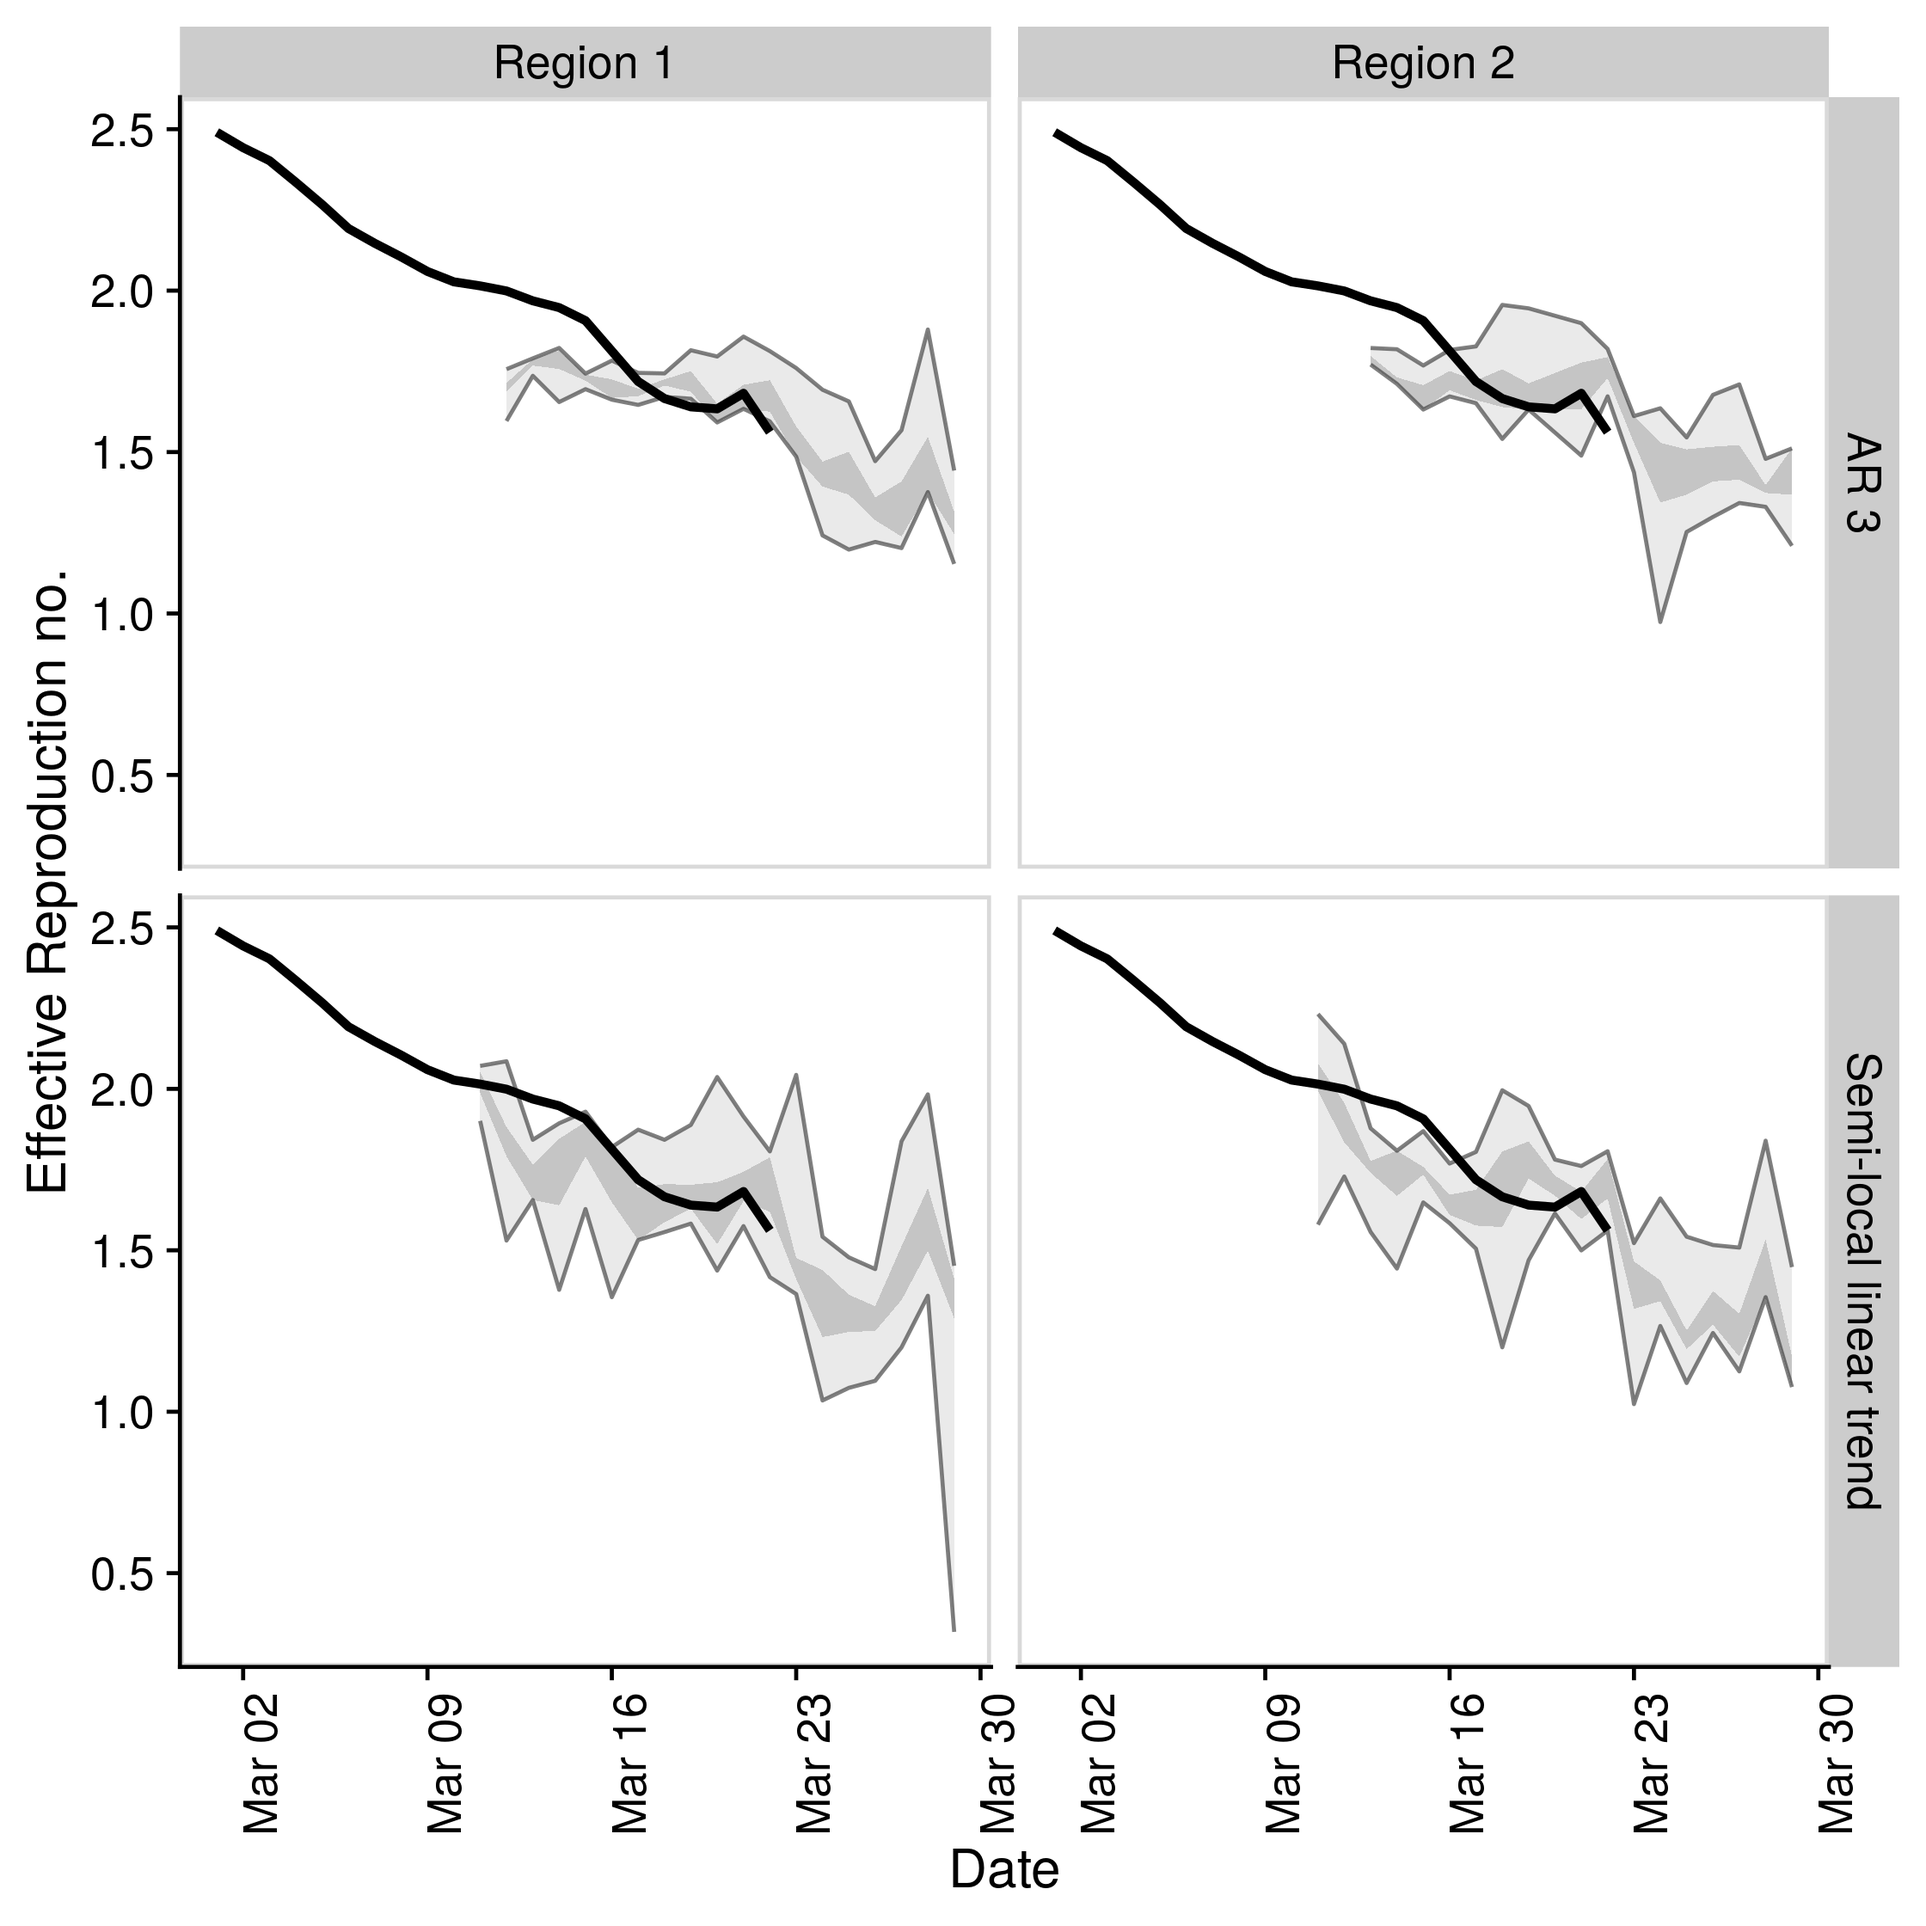
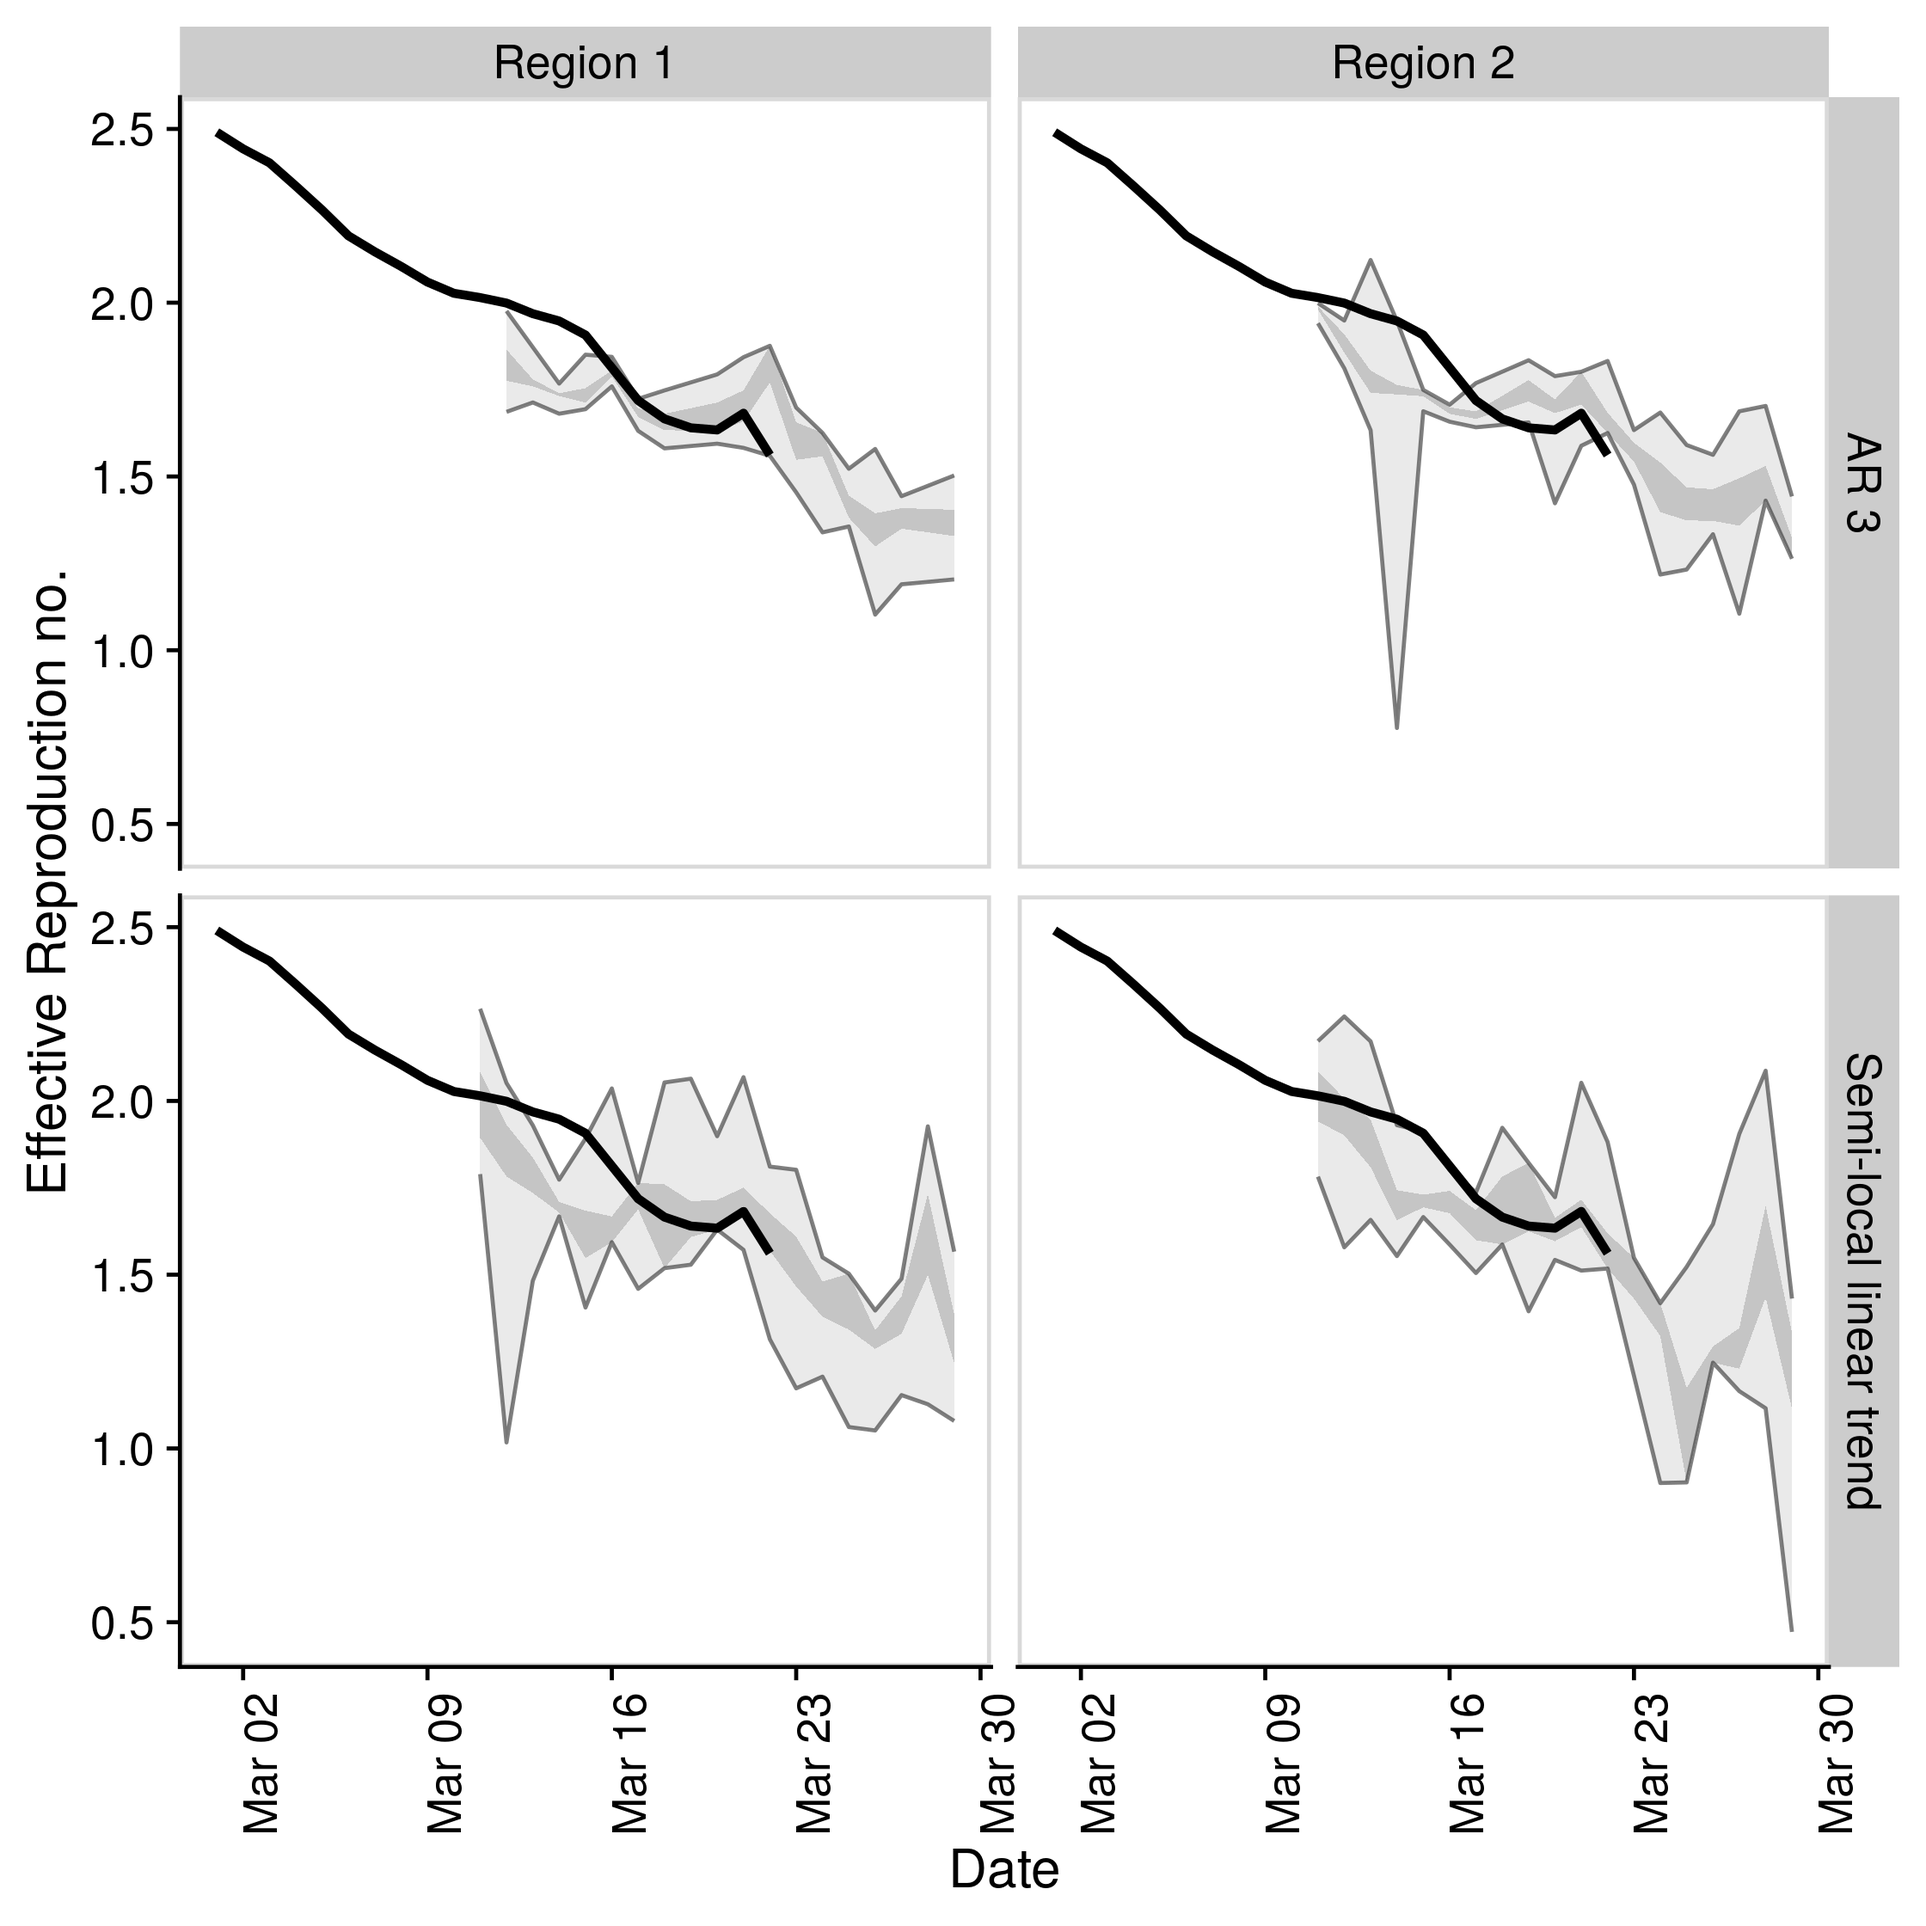
try again to suppress sample warning

diff --git a/README.md b/README.md
@@ -21,14 +21,15 @@ remotes::install_github("epiforecasts/EpiSoon", dependencies = TRUE)
 
 ## Quick start
 
-  - Load packages (`bsts` for models, `ggplot2` for plotting, and
-    `cowplot` for theming)
+  - Load packages (`bsts` and `fable` for models, `ggplot2` for
+    plotting, and `cowplot` for theming)
 
 <!-- end list -->
 
 ``` r
 library(EpiSoon)
 library(bsts)
+library(fable)
 library(future)
 library(cowplot)
 library(dplyr)
@@ -63,7 +64,9 @@ models <- list("AR 3" =
                      function(ss, y){bsts::AddAr(ss, y = y, lags = 3)}, ...)},
                 "Semi-local linear trend" =
                 function(...) {EpiSoon::bsts_model(model =
-                    function(ss, y){bsts::AddSemilocalLinearTrend(ss, y = y)}, ...)})
+                    function(ss, y){bsts::AddSemilocalLinearTrend(ss, y = y)}, ...)},
+               "ARIMA" = 
+                  function(...){fable_model(model = fable::ARIMA(y ~ time), ...)})
 ```
 
   - Compare models across timeseries (change the `future::plan` to do
@@ -78,73 +81,76 @@ future::plan("sequential")
 forecasts <- compare_timeseries(obs_rts, obs_cases, models,
                                    horizon = 7, samples = 10,
                                    serial_interval = EpiSoon::example_serial_interval)
+#> Warning: Unknown or uninitialised column: 'sample'.
+
+#> Warning: Unknown or uninitialised column: 'sample'.
 
 forecasts
 #> $forecast_rts
 #> # A tibble: 504 x 12
 #>    timeseries model forecast_date date       horizon median  mean     sd bottom
 #>    <chr>      <chr> <chr>         <date>       <int>  <dbl> <dbl>  <dbl>  <dbl>
-#>  1 Region 1   AR 3  2020-03-05    2020-03-06       1   2.16  2.16 0.0119   2.14
-#>  2 Region 1   AR 3  2020-03-05    2020-03-07       2   2.07  2.07 0.0269   2.03
-#>  3 Region 1   AR 3  2020-03-05    2020-03-08       3   2.00  2.00 0.0157   1.98
-#>  4 Region 1   AR 3  2020-03-05    2020-03-09       4   1.91  1.91 0.0225   1.87
-#>  5 Region 1   AR 3  2020-03-05    2020-03-10       5   1.85  1.85 0.0228   1.81
-#>  6 Region 1   AR 3  2020-03-05    2020-03-11       6   1.76  1.76 0.0168   1.74
-#>  7 Region 1   AR 3  2020-03-05    2020-03-12       7   1.70  1.69 0.0419   1.60
-#>  8 Region 1   AR 3  2020-03-06    2020-03-07       1   2.13  2.13 0.0163   2.08
-#>  9 Region 1   AR 3  2020-03-06    2020-03-08       2   2.06  2.06 0.0149   2.04
-#> 10 Region 1   AR 3  2020-03-06    2020-03-09       3   2.01  2.01 0.0116   1.99
+#>  1 Region 1   AR 3  2020-03-05    2020-03-06       1   2.19  2.19 0.0156   2.17
+#>  2 Region 1   AR 3  2020-03-05    2020-03-07       2   2.13  2.13 0.0331   2.07
+#>  3 Region 1   AR 3  2020-03-05    2020-03-08       3   2.08  2.07 0.0450   1.96
+#>  4 Region 1   AR 3  2020-03-05    2020-03-09       4   2.02  2.01 0.0604   1.90
+#>  5 Region 1   AR 3  2020-03-05    2020-03-10       5   1.96  1.95 0.0685   1.81
+#>  6 Region 1   AR 3  2020-03-05    2020-03-11       6   1.92  1.90 0.0738   1.77
+#>  7 Region 1   AR 3  2020-03-05    2020-03-12       7   1.84  1.83 0.0790   1.69
+#>  8 Region 1   AR 3  2020-03-06    2020-03-07       1   2.13  2.13 0.0224   2.09
+#>  9 Region 1   AR 3  2020-03-06    2020-03-08       2   2.06  2.05 0.0174   2.01
+#> 10 Region 1   AR 3  2020-03-06    2020-03-09       3   2.00  2.00 0.0273   1.97
 #> # … with 494 more rows, and 3 more variables: lower <dbl>, upper <dbl>,
 #> #   top <dbl>
 #> 
 #> $rt_scores
-#> # A tibble: 392 x 10
-#>    timeseries model forecast_date date       horizon    dss   crps    logs  bias
-#>    <chr>      <chr> <chr>         <date>       <int>  <dbl>  <dbl>   <dbl> <dbl>
-#>  1 Region 1   AR 3  2020-03-05    2020-03-06       1  -2.26 0.0231  -1.42      0
-#>  2 Region 1   AR 3  2020-03-05    2020-03-07       2   1.40 0.0611   0.487     0
-#>  3 Region 1   AR 3  2020-03-05    2020-03-08       3  40.9  0.0960  43.9       0
-#>  4 Region 1   AR 3  2020-03-05    2020-03-09       4  40.0  0.136   76.4       0
-#>  5 Region 1   AR 3  2020-03-05    2020-03-10       5  59.5  0.165   42.8       0
-#>  6 Region 1   AR 3  2020-03-05    2020-03-11       6 239.   0.242  193.        0
-#>  7 Region 1   AR 3  2020-03-05    2020-03-12       7  52.1  0.284  250.        0
-#>  8 Region 1   AR 3  2020-03-06    2020-03-07       1  -6.53 0.0135  -2.29      0
-#>  9 Region 1   AR 3  2020-03-06    2020-03-08       2   1.53 0.0370   7.87      0
-#> 10 Region 1   AR 3  2020-03-06    2020-03-09       3  14.2  0.0469   9.39      0
-#> # … with 382 more rows, and 1 more variable: sharpness <dbl>
+#> # A tibble: 398 x 10
+#>    timeseries model forecast_date date       horizon     dss    crps   logs
+#>    <chr>      <chr> <chr>         <date>       <int>   <dbl>   <dbl>  <dbl>
+#>  1 Region 1   AR 3  2020-03-05    2020-03-06       1 -8.42   0.00415 -2.96 
+#>  2 Region 1   AR 3  2020-03-05    2020-03-07       2 -6.70   0.00906 -2.37 
+#>  3 Region 1   AR 3  2020-03-05    2020-03-08       3 -5.55   0.0177  -2.11 
+#>  4 Region 1   AR 3  2020-03-05    2020-03-09       4 -5.06   0.0284  -1.59 
+#>  5 Region 1   AR 3  2020-03-05    2020-03-10       5 -4.14   0.0482  -1.09 
+#>  6 Region 1   AR 3  2020-03-05    2020-03-11       6 -2.55   0.0824  -0.439
+#>  7 Region 1   AR 3  2020-03-05    2020-03-12       7 -0.0455 0.129    0.147
+#>  8 Region 1   AR 3  2020-03-06    2020-03-07       1 -7.29   0.0105  -1.89 
+#>  9 Region 1   AR 3  2020-03-06    2020-03-08       2  2.29   0.0453   3.59 
+#> 10 Region 1   AR 3  2020-03-06    2020-03-09       3 -2.05   0.0491  -0.826
+#> # … with 388 more rows, and 2 more variables: bias <dbl>, sharpness <dbl>
 #> 
 #> $forecast_cases
-#> # A tibble: 392 x 12
+#> # A tibble: 398 x 12
 #>    timeseries model forecast_date date       horizon median  mean    sd bottom
 #>    <chr>      <chr> <chr>         <date>       <int>  <dbl> <dbl> <dbl>  <dbl>
-#>  1 Region 1   AR 3  2020-03-05    2020-03-06       1   71    71    8.30     61
-#>  2 Region 1   AR 3  2020-03-05    2020-03-07       2   75.5  75    7.76     63
-#>  3 Region 1   AR 3  2020-03-05    2020-03-08       3   87    86.1  8.31     74
-#>  4 Region 1   AR 3  2020-03-05    2020-03-09       4   94    95.8  5.92     89
-#>  5 Region 1   AR 3  2020-03-05    2020-03-10       5  106   109.  15.4      88
-#>  6 Region 1   AR 3  2020-03-05    2020-03-11       6  111   114.   9.26    107
-#>  7 Region 1   AR 3  2020-03-05    2020-03-12       7  118.  122.  15.5     101
-#>  8 Region 1   AR 3  2020-03-06    2020-03-07       1   83.5  82.8  6.99     68
-#>  9 Region 1   AR 3  2020-03-06    2020-03-08       2   91    91   10.5      76
-#> 10 Region 1   AR 3  2020-03-06    2020-03-09       3  105   104.   8.56     86
-#> # … with 382 more rows, and 3 more variables: lower <dbl>, upper <dbl>,
+#>  1 Region 1   AR 3  2020-03-05    2020-03-06       1   66.5  66.9  8.46     54
+#>  2 Region 1   AR 3  2020-03-05    2020-03-07       2   80.5  78.9 11.5      59
+#>  3 Region 1   AR 3  2020-03-05    2020-03-08       3   88    89.3  9.84     76
+#>  4 Region 1   AR 3  2020-03-05    2020-03-09       4  101    98.6 10.5      82
+#>  5 Region 1   AR 3  2020-03-05    2020-03-10       5  110.  110.  14.0      93
+#>  6 Region 1   AR 3  2020-03-05    2020-03-11       6  131   132.  16.8     112
+#>  7 Region 1   AR 3  2020-03-05    2020-03-12       7  132.  134.  12.3     119
+#>  8 Region 1   AR 3  2020-03-06    2020-03-07       1   76.5  78.6  9.56     63
+#>  9 Region 1   AR 3  2020-03-06    2020-03-08       2   88.5  88.9  5.67     82
+#> 10 Region 1   AR 3  2020-03-06    2020-03-09       3  104   105.   8.95     95
+#> # … with 388 more rows, and 3 more variables: lower <dbl>, upper <dbl>,
 #> #   top <dbl>
 #> 
 #> $case_scores
-#> # A tibble: 392 x 11
+#> # A tibble: 398 x 11
 #>    timeseries model sample forecast_date date       horizon   dss  crps  logs
 #>    <chr>      <chr> <chr>  <chr>         <date>       <int> <dbl> <dbl> <dbl>
-#>  1 Region 1   AR 3  1      2020-03-05    2020-03-06       1  4.19  3     3.42
-#>  2 Region 1   AR 3  1      2020-03-05    2020-03-07       2  7.11  8.78  3.98
-#>  3 Region 1   AR 3  1      2020-03-05    2020-03-08       3  8.20 11.8   4.63
-#>  4 Region 1   AR 3  1      2020-03-05    2020-03-09       4 16.4  17.1   7.96
-#>  5 Region 1   AR 3  1      2020-03-05    2020-03-10       5 10.4  26.7   5.59
-#>  6 Region 1   AR 3  1      2020-03-05    2020-03-11       6 40.0  48.1  26.1 
-#>  7 Region 1   AR 3  1      2020-03-05    2020-03-12       7 29.2  64.0  14.4 
-#>  8 Region 1   AR 3  1      2020-03-06    2020-03-07       1  4.40  2.62  2.89
-#>  9 Region 1   AR 3  1      2020-03-06    2020-03-08       2  5.82  7.52  4.16
-#> 10 Region 1   AR 3  1      2020-03-06    2020-03-09       3  6.30  7.48  3.69
-#> # … with 382 more rows, and 2 more variables: bias <dbl>, sharpness <dbl>
+#>  1 Region 1   AR 3  1      2020-03-05    2020-03-06       1  4.74  3.93  3.44
+#>  2 Region 1   AR 3  1      2020-03-05    2020-03-07       2  5.48  4.21  3.57
+#>  3 Region 1   AR 3  1      2020-03-05    2020-03-08       3  6.32  9.21  4.28
+#>  4 Region 1   AR 3  1      2020-03-05    2020-03-09       4  7.65 11.8   4.30
+#>  5 Region 1   AR 3  1      2020-03-05    2020-03-10       5 10.7  23.8   5.35
+#>  6 Region 1   AR 3  1      2020-03-05    2020-03-11       6 10.5  26.8   5.29
+#>  7 Region 1   AR 3  1      2020-03-05    2020-03-12       7 31.2  53.7  21.2 
+#>  8 Region 1   AR 3  1      2020-03-06    2020-03-07       1  5.48  6.18  3.87
+#>  9 Region 1   AR 3  1      2020-03-06    2020-03-08       2  9.30 10.1   4.52
+#> 10 Region 1   AR 3  1      2020-03-06    2020-03-09       3  5.84  6.82  3.75
+#> # … with 388 more rows, and 2 more variables: bias <dbl>, sharpness <dbl>
 ```
 
   - Plot an evaluation of Rt forecasts using iterative fitting.
@@ -178,18 +184,18 @@ plot_forecast_evaluation(forecasts$forecast_cases, obs_cases, c(7)) +
 ``` r
 summarise_scores(forecasts$case_scores)
 #> # A tibble: 10 x 9
-#>    score     model                bottom lower median   mean  upper   top     sd
-#>    <chr>     <chr>                 <dbl> <dbl>  <dbl>  <dbl>  <dbl> <dbl>  <dbl>
-#>  1 bias      AR 3                   0     0     0.100  0.298  0.575   1    0.379
-#>  2 bias      Semi-local linear t…   0     0     0.100  0.287  0.5     1    0.353
-#>  3 crps      AR 3                   4.02 11.2  23.1   37.1   46.7   166.  40.9  
-#>  4 crps      Semi-local linear t…   3.90  9.38 20.2   33.1   37.0   157.  39.6  
-#>  5 dss       AR 3                   5.00  7.05  9.54  15.0   16.0    62.7 15.0  
-#>  6 dss       Semi-local linear t…   4.96  6.69  8.59  12.8   12.0    64.0 13.7  
-#>  7 logs      AR 3                   3.48  4.45  5.33  10.2    8.17   62.1 13.7  
-#>  8 logs      Semi-local linear t…   3.45  4.29  5.10   8.78   6.94   39.3 15.6  
-#>  9 sharpness AR 3                   5.19 10.6  17.0   18.7   22.2    48.1 10.7  
-#> 10 sharpness Semi-local linear t…   5.93 11.1  17.0   20.6   24.8    55.1 13.5
+#>    score     model                 bottom lower median   mean upper   top     sd
+#>    <chr>     <chr>                  <dbl> <dbl>  <dbl>  <dbl> <dbl> <dbl>  <dbl>
+#>  1 bias      AR 3                    0     0     0.100  0.279  0.4    1    0.370
+#>  2 bias      Semi-local linear tr…   0     0     0.100  0.290  0.5    1    0.346
+#>  3 crps      AR 3                    3.88 10.3  20.3   35.2   40.9  158.  39.2  
+#>  4 crps      Semi-local linear tr…   2.76  9.03 18.3   32.4   38.3  159.  38.6  
+#>  5 dss       AR 3                    4.96  6.99  9.16  15.1   15.0   72.3 18.1  
+#>  6 dss       Semi-local linear tr…   4.54  6.52  8.20  12.3   11.8   47.6 12.9  
+#>  7 logs      AR 3                    3.45  4.43  5.23  11.1    8.35  59.5 23.5  
+#>  8 logs      Semi-local linear tr…   3.24  4.32  5.03   9.89   6.54  80.3 17.9  
+#>  9 sharpness AR 3                    5.19 11.1  14.8   18.1   23.7   43.0 10.7  
+#> 10 sharpness Semi-local linear tr…   5.19 11.9  17.0   20.2   25.0   54.1 12.7
 ```
 
 ## Docker
